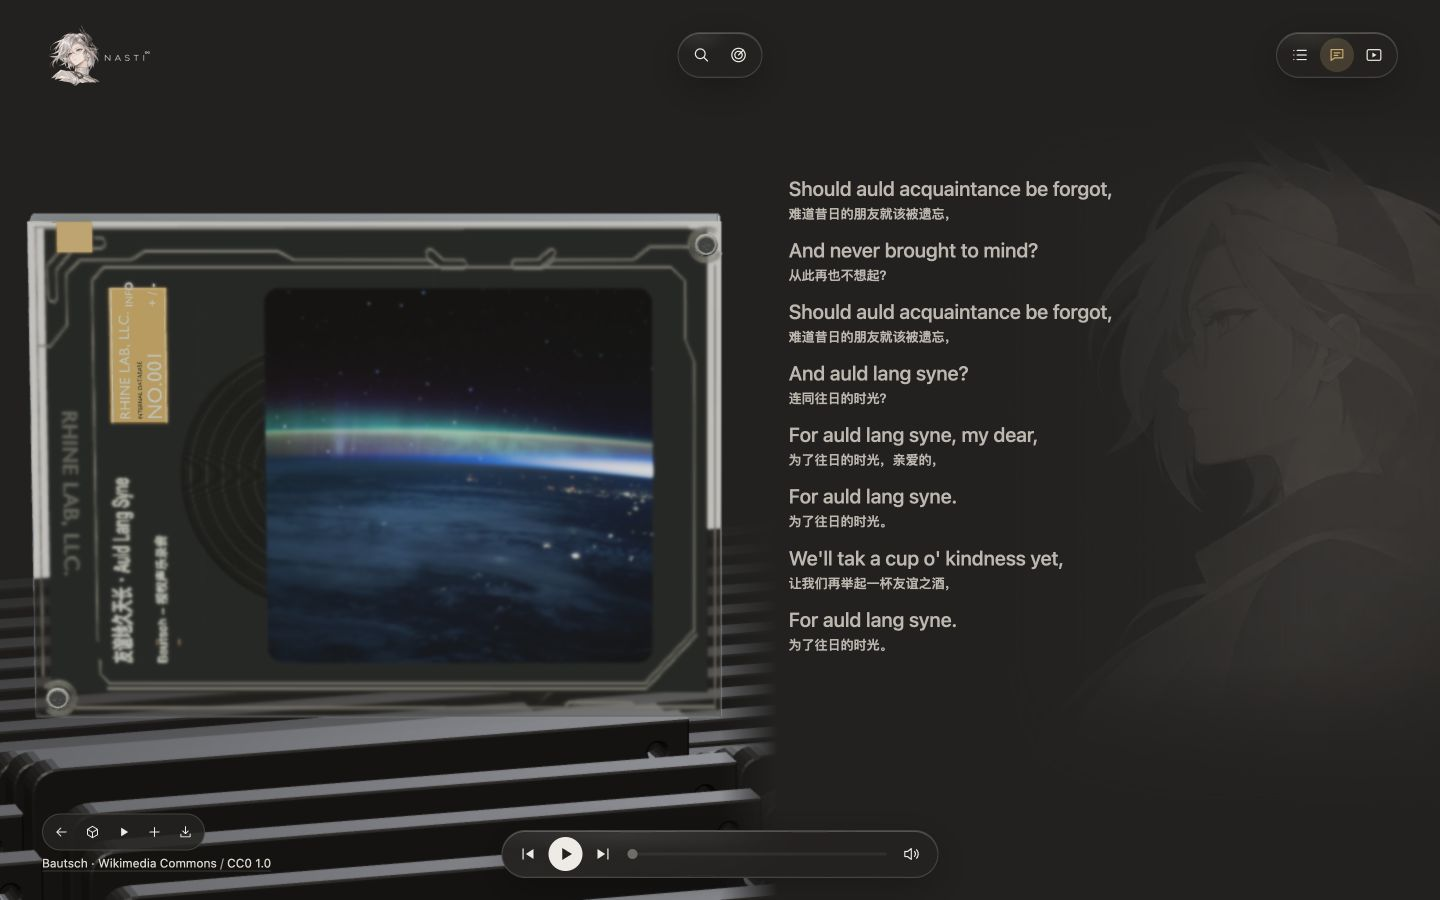
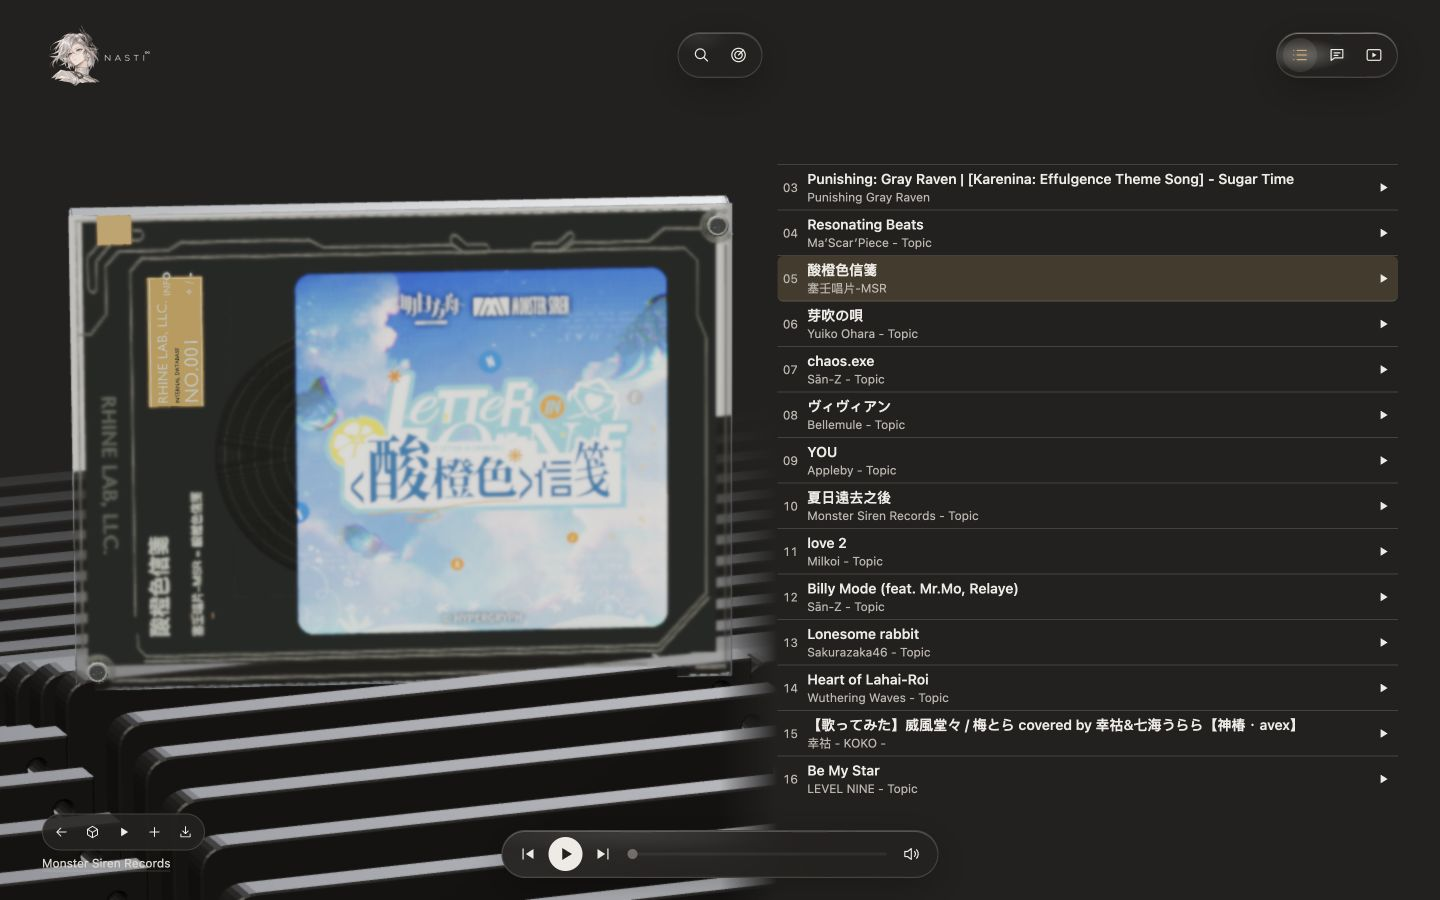
docs: match the playback preview to the selected track

diff --git a/README.md b/README.md
@@ -51,13 +51,13 @@
 <p>
   <picture>
     <source media="(prefers-color-scheme: dark)" srcset="docs/media/readme/playback-and-playlist-dark.jpg">
-    <img src="docs/media/readme/playback-and-playlist-light.jpg" width="836" alt="Playback detail showing cover art and synchronized lyrics">
+    <img src="docs/media/readme/playback-and-playlist-light.jpg" width="836" alt="Playback detail showing the official cover of 酸橙色信箋 and its highlighted entry in the playlist">
   </picture>
 </p>
 
 <p>
-  Open a track to see its cover art and follow the lyrics in sync.<br>
-  <span lang="zh-CN">打开歌曲档案，看唱片封面，跟着播放进度读歌词。</span>
+  The playback detail shows the official cover and highlights <em lang="zh-CN">酸橙色信箋</em>, the fifth track in the original playlist.<br>
+  <span lang="zh-CN">播放详情展示官方封面，并在原歌单曲序中高亮第 5 首《酸橙色信笺》。</span>
 </p>
 
 <p>
